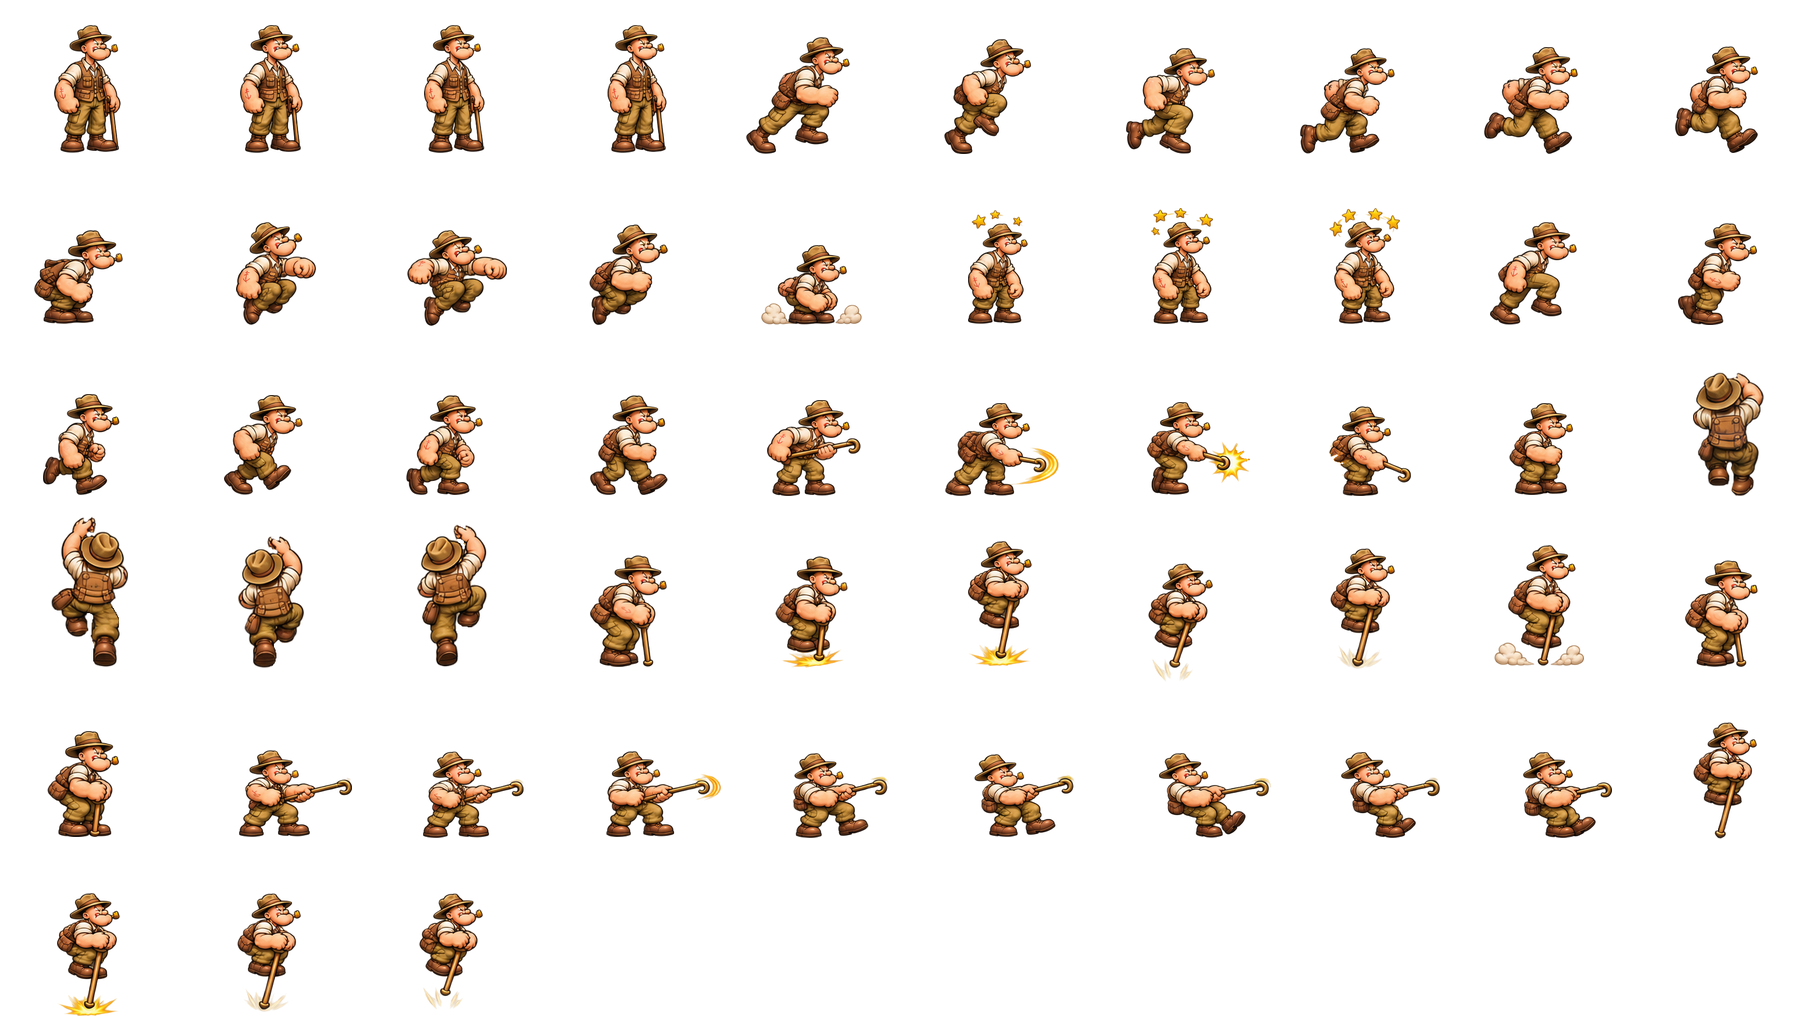
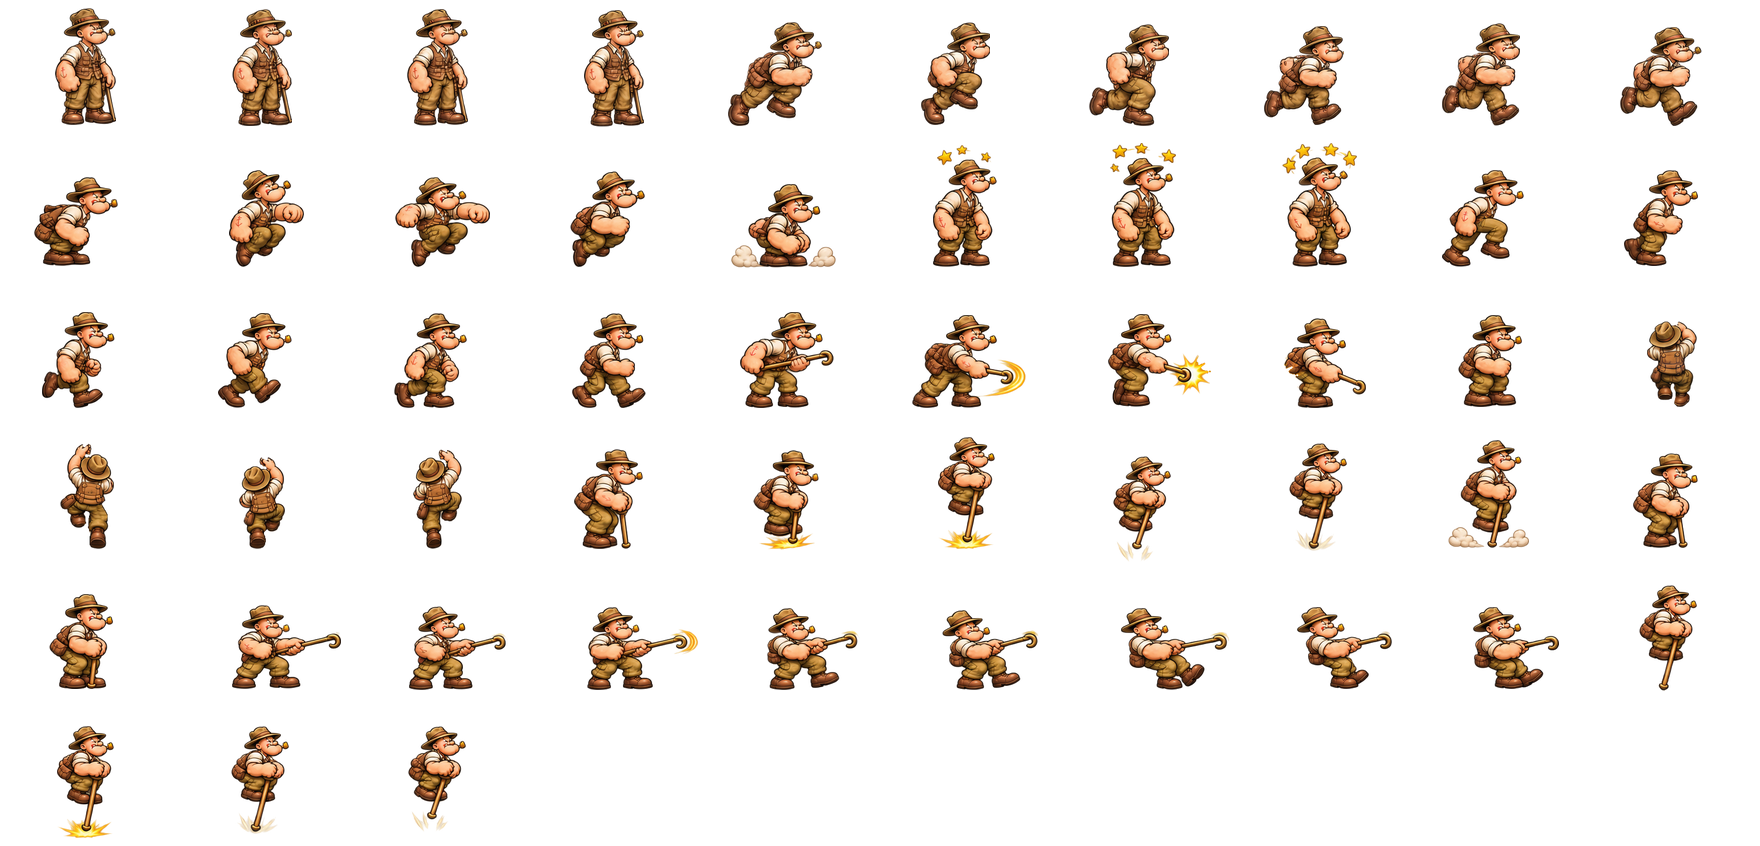
v0.19: yeni bekleme/koşma kareleri, tüm kareler sabit ölçek
Zıplama %10 / tırmanma %30 büyütmesi iptal; bütün kareler kaynak boyutunda
tek ölçekle. Bekleme ve koşma kullanıcının yeni görselleriyle değişti,
kırmızı hale temizlendi.

Claude-Session: https://claude.ai/code/session_015fAnPLhe7qsiaTrmiTdqxN

diff --git a/boot.js b/boot.js
@@ -12,7 +12,7 @@ class BootScene extends Phaser.Scene {
     this.load.image('selaleBas', 'assets/selaleBas.png');   // şelalenin başladığı yer (taş ağız)
     this.load.image('selaleSon', 'assets/selaleSon.png');   // şelalenin bittiği yer (köpük)   // kesintisiz toprak dokusu (tüm toprak zeminler)
     Object.keys(ASSETLER.obje).forEach(ad => this.load.image(ad, 'assets/' + ad + '.png'));
-    // Ana karakter: 53 kare, her hücre 182x171, ayak çizgisi y=153, kafa hücrenin yatay ortasında (CONFIG.oyuncu.kare)
+    // Ana karakter: 53 kare, her hücre 176x141, ayak çizgisi y=125, kafa hücrenin yatay ortasında (CONFIG.oyuncu.kare)
     const KR = CONFIG.oyuncu.kare;
     this.load.spritesheet('oyuncu', 'assets/oyuncu.png', { frameWidth: KR.w, frameHeight: KR.h });
   }
@@ -123,8 +123,8 @@ class BootScene extends Phaser.Scene {
     const an = (key, kareler, frameRate, repeat) =>
       A.create({ key, frames: kareler.map(frame => ({ key: 'oyuncu', frame })), frameRate, repeat });
     const aralik = (a, b) => Array.from({ length: b - a + 1 }, (_, i) => a + i);
-    an('dur',     aralik(0, 3),   5,  -1);  // bekleme (nefes)
-    an('kos',     aralik(4, 9),   12, -1);  // koşma
+    an('dur',     aralik(0, 3),   5,  -1);  // bekleme (nefes) — v0.19 yeni görsel
+    an('kos',     aralik(4, 9),   12, -1);  // koşma — v0.19 yeni görsel
     an('zipla',   [10, 11, 12],   14, 0);   // zıplama: çömel → kalk → tepe
     an('dus',     [13],           1,  0);   // düşüş
     an('in',      [14],           1,  0);   // yere iniş (toz)

diff --git a/config.js b/config.js
@@ -1,6 +1,6 @@
 // Popeye Tales (Atari) - ayarlar
 const CONFIG = {
-  surum: "v0.18",
+  surum: "v0.19",
   tile: 32,
   cimenGenislik: 32,    // çimen görselinin bir tekrarının oyundaki genişliği (px) = bir kare
   cimenUstOran: 0.18,   // çimen görselinin toprak çizgisinin üstüne taşan oranı (≈5 px; dolu kısım çizgiyi örter)
@@ -28,7 +28,7 @@ const CONFIG = {
     canMax: 3,
     yasam: 3,
     boy: 48,             // karakterin ekrandaki boyu (dünya px, ayakta)
-    kare: { w: 182, h: 171, ayakY: 153, ayakBoy: 128 },  // assets/oyuncu.png hücresi: ayak çizgisi, ayakta boy (px)
+    kare: { w: 176, h: 141, ayakY: 125, ayakBoy: 117 },  // assets/oyuncu.png hücresi: ayak çizgisi, ayakta boy (px)
     ayakGomme: 2,        // ayaklar zemin çizgisinin bu kadar altına çizilir (px) — çimene basmış görünür
     govdeG: 18,          // çarpışma gövdesi genişliği (px)
     govdeY: 30,          // çarpışma gövdesi yüksekliği (px) — 1 karelik (32 px) tünellere sığar

diff --git a/OYUN.md b/OYUN.md
@@ -1,6 +1,6 @@
 # Popeye Tales (Atari) — OYUN.md
 
-Sürüm: v0.18 (`config.js` → `surum`)
+Sürüm: v0.19 (`config.js` → `surum`)
 Motor: Phaser 3.80.1 (CDN), Arcade Physics.
 Görseller (v0.05, yeni set): zemin ve arka plan tek bir karo setinde (`assets/tileset.png`, 64 px kaynak, oyunda 32 px); objeler `assets/*.png` (platform parçaları, sarmaşık/ip/merdiven/zincir, kasa, taş blok, kırmızı takoz, dikenler, sandık, kapı, bayrak). Ana karakter (v0.14): `assets/oyuncu.png` sprite sheet (aşağıda). Düşman, elmas ve arayüz hâlâ yer tutucu (renkli şekiller, `boot.js`).
 
@@ -19,7 +19,8 @@ Not: görseller dosyadan yüklendiği için oyun `file://` ile değil bir web ad
 - Tam ekran tuşu: tam ekrana geçer ve telefonu **yatay kilitler** (`screen.orientation.lock('landscape')`; Android Chrome'da çalışır, iPhone Safari kilit desteklemez). Telefon dikey tutulursa üstte "Telefonu yan çevirin" uyarısı çıkar.
 
 ## Ana karakter sprite'ı (v0.14)
-`assets/oyuncu.png`: 53 kare, 10 sütun, hücre 182×171 px (`CONFIG.oyuncu.kare`). Kaynak görsel düzensiz ızgaralıydı (satırlarda 10/8/11/12/8 kare); kareler tek tek tespit edilip kesildi, kirli kahverengi hale temizlendi, satırlar arası boy farkı (şapka genişliğine göre) eşitlendi. Her karede ayak çizgisi y=153, kafa hücrenin yatay ortasında (sola dönünce kayma olmaz). v0.15: zıplama kareleri (10–13) %10, tırmanma kareleri (29–32) %30 daha büyük — küçük hali büyütülmedi, orijinal büyük görselden tek adımda ölçeklendi (pikselleşme yok). 49–52: kullanıcının gönderdiği yeni pogo görselinden kesildi (aynı ölçek ve gövde hizası). Oyunda ayakta boy 48 px (`CONFIG.oyuncu.boy`), çarpışma gövdesi 18×30 px (v0.18: 38'den 30'a indi — 1 karelik (32 px) tünellere sığması için; şapka tünelde tavana biraz taşabilir).
+`assets/oyuncu.png`: 53 kare, 10 sütun, hücre 176×141 px (`CONFIG.oyuncu.kare`). Kaynak görsel düzensiz ızgaralıydı; kareler tek tek tespit edilip kesildi, kirli hale temizlendi. Her karede ayak çizgisi y=125, kafa hücrenin yatay ortasında (sola dönünce kayma olmaz).
+**v0.19: bütün kareler tek ve sabit ölçekte (%100)** — satır bazlı büyütme/küçültme yok (v0.15'teki zıplama %10 / tırmanma %30 büyütmesi iptal). Asıl sorun eski bekleme ve koşma karelerinin büyük çizilmesiydi: 0–9 kullanıcının gönderdiği yeni bekleme (4) ve koşma (6) görselleriyle değiştirildi (kenardaki kırmızı hale temizlendi). 49–52 ayrı gönderilen pogo görselinden. Oyunda bekleme karesinde ayakta boy 48 px (`CONFIG.oyuncu.boy`), çarpışma gövdesi 18×30 px (1 karelik tünellere sığar).
 | Animasyon | Kareler | Ne zaman |
 |---|---|---|
 | dur | 0–3 | yerde dururken |
